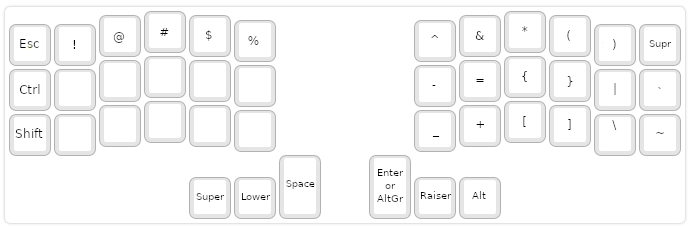
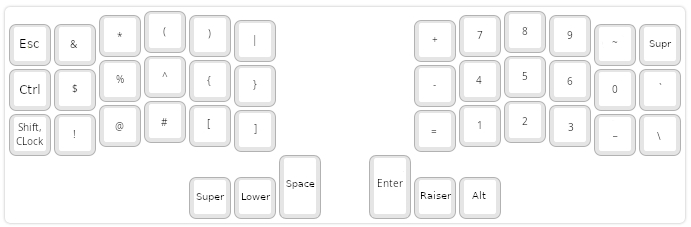
update images

diff --git a/README.md b/README.md
@@ -13,17 +13,17 @@
 
 Funcionalidades:
 
-* Se utilizaa formato de pantalla de soundmonster para el oled izquierdo.
+* Se utilizaa formato de pantalla de soundmonster para el oled.
 1. Indicador de boton funcion presionado (Ctrl, Alt, Super/ Command, Shift)
 2. Indicador de capa activa (LOWER, RAISE, ADJUST, DEFAULT).
+
 * Agregado keylogger en mano izquierda configurable en oled.h
-* Indicador de Bloqueo mayuscula por color de teclado master.
+* Indicador de Bloqueo mayuscula por color de teclado (Verde).
 * Teclas con tap dance de doble toque.
+
 1. F1 --> F11
 2. F2 --> F12
 3. Shift --> Bloq Mayus
-* Tecla Enter de doble funcion, al mantener presionado se convierte en AltGr
+
 * El Shift derecho es al mantener presionado, en todo caso solo es el simbolo ')'
 
-## Commit de QMK repo donde no presenta falla la pantalla secundaria
-c32264d9b7382e86c7df75edfe3bc4154d714e25
